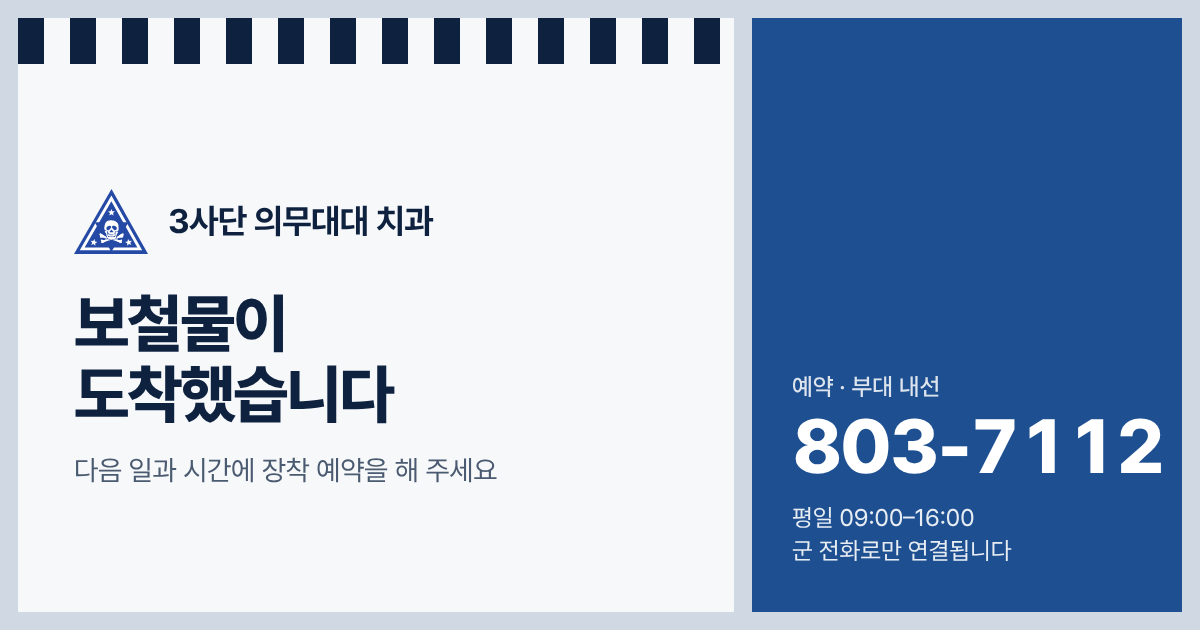
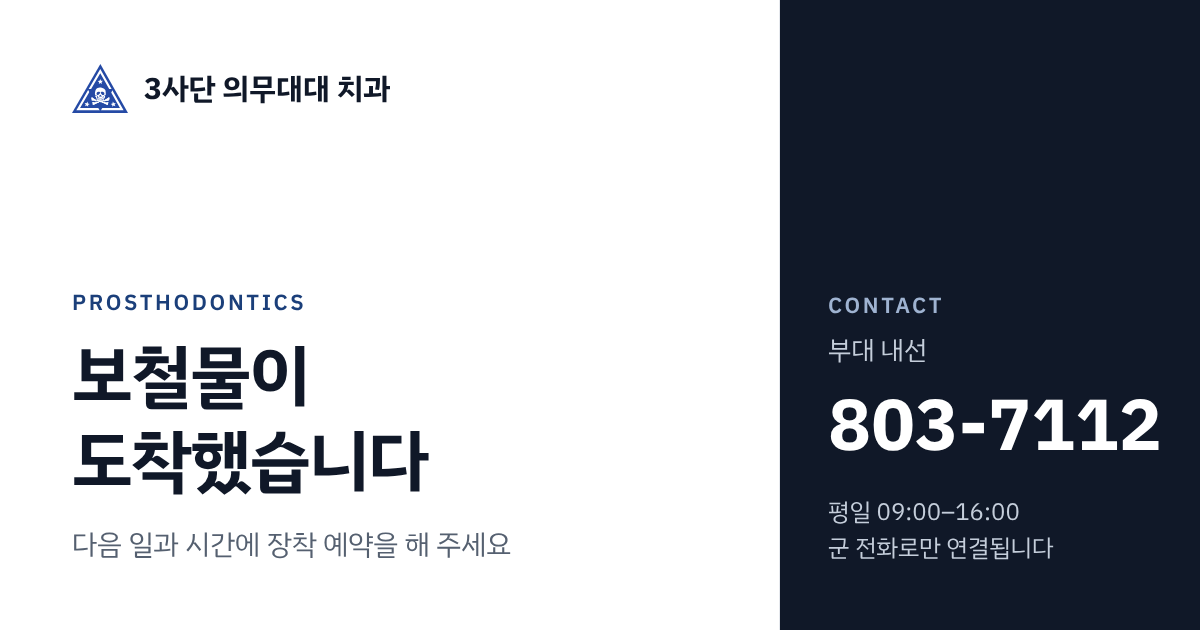
보안·신뢰: 군의관 실명 부재 일정, 병사 실명·학력, 광고성 표현 제거
- 진료 일정 파일과 달력에서 군의관 이름과 개인별 부재를 없애고
  날짜별 '초진 가능 / 재진만 / 휴진' 상태만 공개
- 병사 실명과 학력을 지우고 '치과 의무병' 역할만 남김
- '대학병원급', 3M 제품 안내 그림, 보톡스 제품 사진과 문구 삭제
- 미리보기 그림의 문구도 함께 수정

Claude-Session: https://claude.ai/code/session_01R7kTzuw7UYxby8XWCzNtGf

diff --git a/calendar.js b/calendar.js
@@ -1,6 +1,6 @@
 // 3사단 의무대대 치과 — 진료 일정 달력
 // data/schedule.json 은 GitHub Actions 가 한 시간마다 구글 캘린더에서 만들어 둔다 (scripts/build_schedule.py).
-// 평일만 보여 주고, 날마다 진료하는 군의관을 표시한다. 휴가 종류는 파일에도 화면에도 없다.
+// 평일만 보여 주고, 날마다 '초진 가능 / 재진만 / 휴진' 상태만 표시한다. 군의관 이름과 부재 사유는 파일에도 화면에도 없다.
 
 (() => {
   const roots = Array.from(document.querySelectorAll('[data-cal]'));
@@ -9,6 +9,9 @@
 
   const DOW = ['일', '월', '화', '수', '목', '금', '토'];
   const PHONE = '부대 내선 803-7112';
+  // 상태 이름은 여기서 바꾼다
+  const LABEL = { open: '초진 가능', limited: '재진만', closed: '휴진' };
+  const HINT = { open: '처음 오는 분도 예약할 수 있습니다', limited: '이어서 치료받는 분만 예약할 수 있습니다', closed: '치과 군의관이 모두 자리를 비웁니다' };
   const esc = (s) => String(s).replace(/[&<>"']/g, (c) => ({ '&': '&amp;', '<': '&lt;', '>': '&gt;', '"': '&quot;', "'": '&#39;' }[c]));
   const parse = (k) => new Date(`${k}T00:00:00Z`);
   const keyOf = (d) => d.toISOString().slice(0, 10);
@@ -16,35 +19,24 @@
   const seoulToday = () => new Intl.DateTimeFormat('en-CA', { timeZone: 'Asia/Seoul', year: 'numeric', month: '2-digit', day: '2-digit' }).format(new Date());
   const md = (k) => { const d = parse(k); return `${d.getUTCMonth() + 1}월 ${d.getUTCDate()}일 (${DOW[d.getUTCDay()]})`; };
 
-  // 그날의 상태: 휴진(주말·공휴일) 또는 진료하는 군의관 목록
+  // 그날의 상태: 휴진(주말·공휴일) 또는 open / limited / closed
   function dayInfo(k, data) {
     const w = parse(k).getUTCDay();
-    if (w === 0 || w === 6) return { closed: true, label: '휴진' };
-    if (data.holidays[k]) return { closed: true, label: data.holidays[k] };
-    const away = data.away[k] || {};
-    const docs = [];
-    data.doctors.forEach((doc, i) => {
-      const a = away[doc.id];
-      if (a === 'day') return;
-      docs.push({ ...doc, i, part: a === 'am' ? '오후' : a === 'pm' ? '오전' : '' });
-    });
-    return { closed: false, docs };
+    if (w === 0 || w === 6) return { off: true, label: '휴진' };
+    if (data.holidays[k]) return { off: true, label: data.holidays[k] };
+    return { off: false, status: (data.days || {})[k] || 'open' };
   }
-  const who = (docs) => docs.length
-    ? docs.map((d) => `${d.name} ${d.rank}${d.part ? ` (${d.part}만)` : ''}`).join(' · ')
-    : '치과 군의관이 모두 자리를 비웁니다';
   const inRange = (k, data) => k >= data.from && k <= data.to;
 
   function todayText(data, today) {
     if (!inRange(today, data)) return { head: '진료 일정 정보가 없습니다', sub: `${PHONE}로 확인하세요.` };
     const t = dayInfo(today, data);
-    if (!t.closed && !t.docs.length) return { head: `오늘 ${md(today)}은 치과 군의관이 모두 자리를 비웁니다`, sub: `${PHONE}로 확인하세요.` };
-    if (!t.closed) return { head: `오늘 ${md(today)} 진료`, sub: who(t.docs) };
+    if (!t.off) return { head: `오늘 ${md(today)} · ${LABEL[t.status]}`, sub: HINT[t.status] };
     let k = addDays(today, 1);
-    while (inRange(k, data) && dayInfo(k, data).closed) k = addDays(k, 1);
+    while (inRange(k, data) && dayInfo(k, data).off) k = addDays(k, 1);
     const reason = t.label === '휴진' ? '' : ` · ${t.label}`;
     if (!inRange(k, data)) return { head: `오늘은 휴진입니다${reason}`, sub: '' };
-    return { head: `오늘은 휴진입니다${reason}`, sub: `다음 진료일 ${md(k)} · ${who(dayInfo(k, data).docs)}` };
+    return { head: `오늘은 휴진입니다${reason}`, sub: `다음 진료일 ${md(k)} · ${LABEL[dayInfo(k, data).status]}` };
   }
 
   function updatedText(iso) {
@@ -81,7 +73,8 @@
       <ol class="cal__head" aria-hidden="true"><li>월</li><li>화</li><li>수</li><li>목</li><li>금</li></ol>
       <ol class="cal__grid" data-grid></ol>
       <ul class="cal__legend">
-        ${data.doctors.map((d, i) => `<li><span class="cal__doc cal__doc--${i}">${esc(d.name)}</span>${esc(d.rank)} · ${esc(d.role)}</li>`).join('')}
+        <li><span class="cal__doc cal__doc--0">${LABEL.open}</span>${HINT.open}</li>
+        <li><span class="cal__doc cal__doc--1">${LABEL.limited}</span>${HINT.limited}</li>
       </ul>
       <p class="cal__note small muted">의무대대 진료 캘린더에서 한 시간마다 가져옵니다.${updatedText(data.updated)} 휴가와 출장으로 바뀔 수 있으니 오기 전에 전화로 확인하세요.</p>`;
 
@@ -102,25 +95,16 @@
         const w = parse(k).getUTCDay();
         if (w === 0 || w === 6) continue;
         const n = Number(k.slice(8));
-        const info = inRange(k, data) ? dayInfo(k, data) : { closed: false, docs: null };
+        const info = inRange(k, data) ? dayInfo(k, data) : { off: false, status: null };
         const cls = ['cal__day'];
         if (k < today) cls.push('is-past');
         if (k === today) cls.push('is-today');
-        if (info.closed) cls.push('is-closed');
+        if (info.off || info.status === 'closed') cls.push('is-closed');
         let body, label;
-        if (info.closed) {
-          body = `<span class="cal__off">${esc(info.label)}</span>`;
-          label = info.label;
-        } else if (!info.docs) {
-          body = '<span class="cal__off">미정</span>';
-          label = '일정 미정';
-        } else if (!info.docs.length) {
-          body = '<span class="cal__off">군의관 부재</span>';
-          label = '군의관 부재, 전화로 확인';
-        } else {
-          body = info.docs.map((d) => `<span class="cal__doc cal__doc--${d.i}">${esc(d.name)}${d.part ? ` <i>${d.part}</i>` : ''}</span>`).join('');
-          label = `${who(info.docs)} 진료`;
-        }
+        if (info.off) { body = `<span class="cal__off">${esc(info.label)}</span>`; label = info.label; }
+        else if (!info.status) { body = '<span class="cal__off">미정</span>'; label = '일정 미정'; }
+        else if (info.status === 'closed') { body = `<span class="cal__off">${LABEL.closed}</span>`; label = LABEL.closed; }
+        else { body = `<span class="cal__doc cal__doc--${info.status === 'open' ? 0 : 1}">${LABEL[info.status]}</span>`; label = LABEL[info.status]; }
         html += `<li class="${cls.join(' ')}" aria-label="${m}월 ${n}일 ${DOW[w]}요일${k === today ? ' 오늘' : ''}, ${esc(label)}">
           <span class="cal__date" aria-hidden="true"><b>${n}</b><span class="cal__dow">${DOW[w]}</span>${k === today ? '<span class="cal__tag">오늘</span>' : ''}</span>
           <span class="cal__docs" aria-hidden="true">${body}</span></li>`;
@@ -147,7 +131,7 @@
       const today = seoulToday();
       if (docLine && inRange(today, data)) {
         const t = dayInfo(today, data);
-        if (!t.closed) { docLine.textContent = t.docs.length ? `오늘 진료: ${who(t.docs)}` : '오늘은 치과 군의관이 모두 자리를 비웁니다'; docLine.hidden = false; }
+        if (!t.off) { docLine.textContent = `오늘: ${LABEL[t.status]}`; docLine.hidden = false; }
       }
     })
     .catch(() => roots.forEach(fail));

diff --git a/clinic.html b/clinic.html
@@ -336,14 +336,6 @@
             </div>
           </div>
           <p class="feature__credit small muted">Courtesy of Dr. Lee Won Woo</p>
-          <figure class="feature__material">
-            <a href="photos/3m-filtek-flowable.jpg"><img src="photos/3m-filtek-flowable.jpg" alt="3M Filtek Supreme Flowable Restorative 제품 안내: 나노 필러 레진과 전용 시린지, A2 색조" width="1127" height="767" loading="lazy"></a>
-            <figcaption>
-              <strong>수복 재료</strong>
-              <p>레진 수복에는 3M Filtek을 비롯한 프리미엄 수복 재료를 사용합니다. 나노 필러 레진으로 강도와 표면 광택을 오래 유지하고, 자연치와 같은 색조를 골라 경계가 드러나지 않게 수복합니다.</p>
-              <p class="small muted">제품 이미지: 3M 제품 안내 자료</p>
-            </figcaption>
-          </figure>
           <div class="feature__row feature__row--full">
             <ul>
               <li>최소 삭제 원칙에 따른 직접 레진 수복</li>
@@ -423,13 +415,10 @@
         <article class="feature" id="tmd" data-reveal>
           <h3>수면 이갈이와 턱관절 치료</h3>
           <p class="feature__statement">이갈이·이악물기와 턱관절 장애(TMD)를 진단하고, 보톡스 진료와 교합안정장치, 스포츠 마우스가드로 치료합니다.</p>
-          <div class="feature__trio">
-            <figure class="feature__trio-pair">
-              <div><img src="photos/tmd-botox-innotox.jpg" alt="보툴리눔 독소 제제 이노톡스" width="800" height="800" loading="lazy"><img src="photos/tmd-botox-tmbus.jpg" alt="보툴리눔 독소 제제 티엠버스" width="800" height="800" loading="lazy"></div>
-              <figcaption>내성이 적고 안전한 보톡스</figcaption>
-            </figure>
-            <figure><img src="photos/tmd-splint.jpg" alt="투명한 레진으로 만든 교합안정장치" width="800" height="800" loading="lazy"><figcaption>교합안정장치</figcaption></figure>
-          </div>
+          <figure class="feature__photo">
+            <img src="photos/tmd-splint-wide.jpg" alt="투명한 레진으로 만든 교합안정장치" width="1400" height="875" loading="lazy">
+            <figcaption>교합안정장치. 본을 떠 맞춤 제작하고, 잠잘 때 끼워 치아와 턱관절을 보호합니다.</figcaption>
+          </figure>
           <div class="feature__row feature__row--full">
             <ul>
               <li>턱관절 소리, 입 벌림 제한, 턱 근육 통증을 진찰해 이갈이와 턱관절 장애 진단</li>

diff --git a/index.html b/index.html
@@ -251,10 +251,10 @@
       <div class="card__body">
         <a class="wordmark" href="index.html" data-load style="--d:200ms"><img class="mark" src="mark.svg" alt="3사단 부대 마크" width="84" height="73">3사단 의무대대 치과</a>
         <h1 class="display display--long lines">
-          <span class="line"><span data-line style="--i:0">대학병원급 진료,</span></span>
-          <span class="line"><span data-line style="--i:1">이제 부대 안에서<br class="only-narrow"> 받을 수 있습니다</span></span>
+          <span class="line"><span data-line style="--i:0">부대 안에서 받는</span></span>
+          <span class="line"><span data-line style="--i:1">전문의 치과 진료</span></span>
         </h1>
-        <p class="lead" data-load style="--d:420ms">구강악안면외과 전문의, 치과보철과 전문의 2명이 상주하며 3사단 장병과 간부들에게 최상의 진료를 제공합니다. 쾌적한 진료 퀄리티를 유지하기 위해, 치과의 모든 진료는 전화 예약제로 운영됩니다.</p>
+        <p class="lead" data-load style="--d:420ms">구강악안면외과·치과보철과 전문의가 진료합니다. 예약은 전화로만 받고, 군번만 있으면 됩니다.</p>
         <a class="button" href="hours.html#how" data-load style="--d:500ms">예약 · 부대 내선 803-7112</a>
         <p class="hero__note small muted" data-load style="--d:560ms">내선은 군 전화로만 걸 수 있습니다. 저녁에 보셨다면 다음 날 일과 시간에 전화하세요.</p>
       </div>
@@ -346,16 +346,8 @@
       </article>
       <h3 class="staff__group" data-reveal>소속 병사</h3>
       <article class="doctor doctor--staff" data-reveal>
-        <h3>상병 송영규</h3>
+        <h3>치과 의무병</h3>
         <ul class="plain">
-          <li>University of Pennsylvania 의료과 졸업</li>
-          <li>치과 치료 및 처치 보조, 진료 및 예약 안내</li>
-        </ul>
-      </article>
-      <article class="doctor doctor--staff" data-reveal>
-        <h3>상병 박인환</h3>
-        <ul class="plain">
-          <li>신구대학교 치기공학과 졸업</li>
           <li>치과 치료 및 처치 보조, 진료 및 예약 안내</li>
         </ul>
       </article>

diff --git a/scripts/build_schedule.py b/scripts/build_schedule.py
@@ -1,8 +1,11 @@
-"""의무대대 공용 구글 캘린더에서 치과 군의관 두 명의 부재만 골라 data/schedule.json 으로 저장한다.
+"""의무대대 공용 구글 캘린더에서 치과 군의관 부재를 읽어, 날짜별 '진료 상태'만 data/schedule.json 으로 저장한다.
 
 - 캘린더 주소는 GitHub Secret 의 CAL_MEDICAL 에서 읽는다. 주소와 원본 일정은 어디에도 저장하지 않는다.
+- 공개 파일에는 군의관 이름, 누가 언제 비는지, 휴가 종류를 남기지 않는다 (보안).
+  평일마다 아래 셋 중 하나만 남긴다. 평소(초진 가능)인 날은 적지 않는다.
+    limited : 군의관 한 명 이상이 하루 중 자리를 비움 → 화면에 '재진만'
+    closed  : 군의관이 모두 자리를 비움 → 화면에 '휴진'
 - 일정 제목은 "연가1) 이원우(5/9일)", "청원휴가3) 이종철" 처럼 "종류번호) 이름" 꼴이다.
-- 홈페이지에는 휴가 종류를 내보내지 않는다. 날짜마다 누가 종일·오전·오후 부재인지만 남긴다.
 - 공휴일은 구글의 공개 '대한민국의 휴일' 캘린더에서 '공휴일'만 가져온다 (기념일은 뺀다).
 """
 import json
@@ -143,6 +146,19 @@ def mark(away, d: date, doc: str, part: str, start: date, end: date):
     away[k][doc] = merge(away[k].get(doc), part)
 
 
+def day_status(away):
+    """군의관별 부재를 날짜별 상태로 줄인다. 이름은 여기서 버린다."""
+    out = {}
+    for k, who in sorted(away.items()):
+        if not who:
+            continue
+        if all(who.get(d["id"]) == "day" for d in DOCTORS):
+            out[k] = "closed"
+        else:
+            out[k] = "limited"
+    return out
+
+
 def build_holidays(cal_bytes: bytes, start: date, end: date):
     cal = icalendar.Calendar.from_ical(cal_bytes)
     out = {}
@@ -189,9 +205,8 @@ def main():
     data = {
         "from": start.isoformat(),
         "to": (end - timedelta(days=1)).isoformat(),
-        "doctors": DOCTORS,
         "holidays": dict(sorted(holidays.items())),
-        "away": {k: dict(sorted(v.items())) for k, v in sorted(away.items())},
+        "days": day_status(away),
     }
     same = {k: v for k, v in old.items() if k != "updated"} == data
     data["updated"] = old.get("updated") if same and old.get("updated") else datetime.now(KST).replace(microsecond=0).isoformat()
@@ -200,7 +215,7 @@ def main():
         return
     OUT.parent.mkdir(parents=True, exist_ok=True)
     OUT.write_text(json.dumps(data, ensure_ascii=False, indent=1) + "\n", encoding="utf-8")
-    print(f"저장: 부재 {sum(len(v) for v in away.values())}건, 공휴일 {len(holidays)}일, {data['from']} ~ {data['to']}")
+    print(f"저장: 재진만 {list(data['days'].values()).count('limited')}일, 휴진 {list(data['days'].values()).count('closed')}일, 공휴일 {len(holidays)}일, {data['from']} ~ {data['to']}")
 
 
 if __name__ == "__main__":
